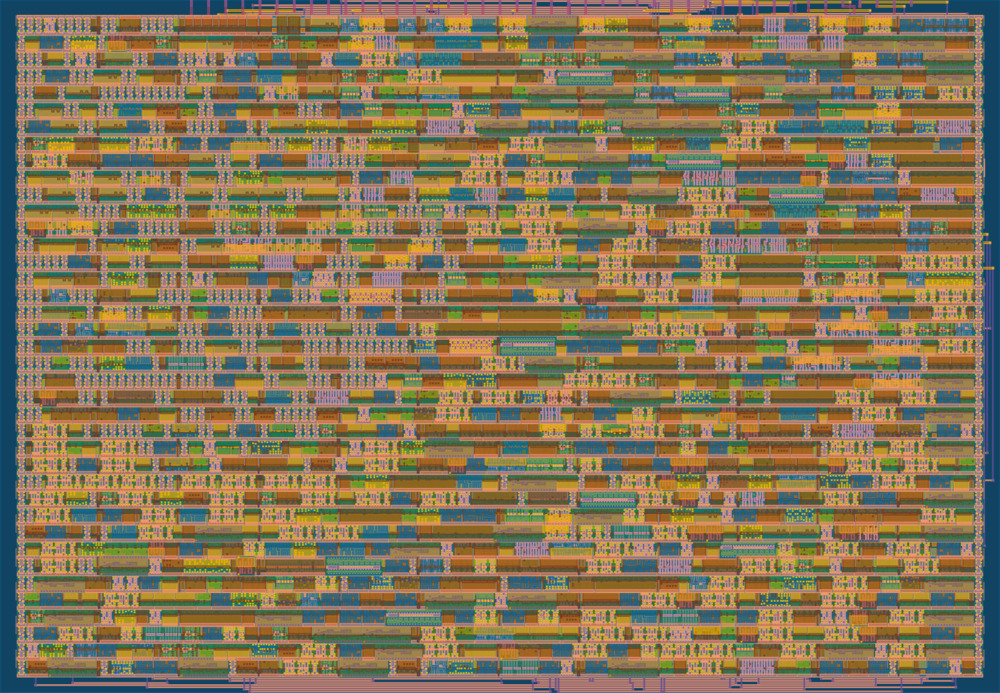
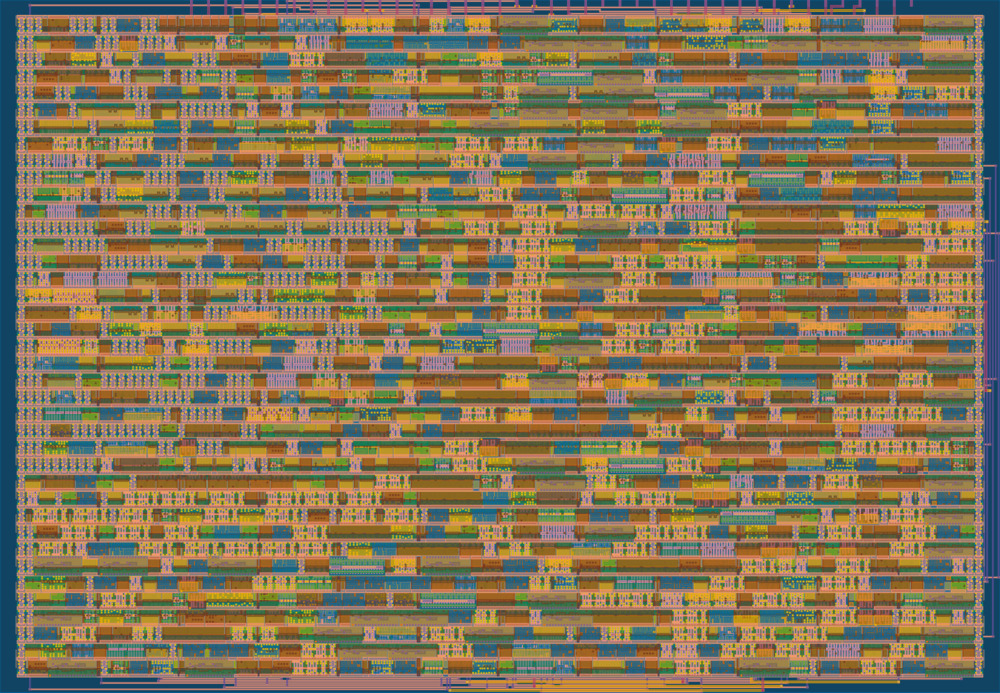
experiments with performance

diff --git a/fmax.py b/fmax.py
@@ -1,0 +1,29 @@
+#!/usr/bin/env python3
+# fmax per STA corner: 1000 / (CLOCK_PERIOD - setup WS) MHz
+import glob
+import json
+from pathlib import Path
+
+root = Path(__file__).resolve().parent
+period = json.loads((root / "src/config.json").read_text())["CLOCK_PERIOD"]
+
+results = {}
+for rpt in glob.glob(str(root / "runs/wokwi/*-openroad-stapostpnr/summary.rpt")):
+    for line in Path(rpt).read_text().splitlines():
+        cols = [c.strip() for c in line.split("│")]
+        if len(cols) <= 8 or cols[1] == "Overall":
+            continue
+        try:
+            ws = float(cols[7])
+        except ValueError:
+            continue
+        results[cols[1]] = (ws, 1000 / (period - ws))
+
+for corner, (ws, mhz) in results.items():
+    print(f"{corner:<20} {ws:9.4f} ns {mhz:7.2f} MHz")
+
+if results:
+    mhz = [m for _, m in results.values()]
+    print(f"fmax range: {min(mhz):.2f} – {max(mhz):.2f} MHz")
+
+

diff --git a/README.md b/README.md
@@ -48,10 +48,7 @@ make harden
 Look in `runs/wokwi/` for errors/warnings. Diagnostics are available with
 
 ```
-.venv/bin/python tt/tt_tool.py --print-warnings
-.venv/bin/python tt/tt_tool.py --print-stats
-.venv/bin/python tt/tt_tool.py --print-cell-summary
-.venv/bin/python tt/tt_tool.py --print-cell-category
+make stats
 ```
 
 To render an image try
@@ -66,20 +63,75 @@ and also look under `docs/netlist.svg`
 
 The final output is in `runs/wokwi/final/` (GDS, LEF, netlists).
 
-### Optimisations
+### Timing and Optimisations
 
-TODO perf
+An estimate of maximum clock frequency is `1 / (CLOCK_PERIOD − WNS)`.
 
-Add this to `src/config.json`) to use a faster adder type to trade space for speed:
+`src/config.json` sets `CLOCK_PERIOD: 20` (20 ns, 50 MHz)
+
+`WNS` (worst negative slack) is obtained from looking at the output of `runs/wokwi/*-openroad-stapostpnr/summary.rpt`
+
+The `fmax.py` script will automatically produce reports for each "corner" and at different temperatues
+
+```
+# Routing stats
+
+| Utilisation (%) | Wire length (um) |
+|-------------|------------------|
+| 78.509 % | 54459 |
+python ./fmax.py
+nom_tt_025C_1v80        3.7944 ns   61.71 MHz
+nom_ss_100C_1v60       -7.4748 ns   36.40 MHz
+nom_ff_n40C_1v95        8.4237 ns   86.38 MHz
+min_tt_025C_1v80        3.9201 ns   62.19 MHz
+min_ss_100C_1v60       -7.2305 ns   36.72 MHz
+min_ff_n40C_1v95        8.5358 ns   87.23 MHz
+max_tt_025C_1v80        3.6601 ns   61.20 MHz
+max_ss_100C_1v60       -7.7137 ns   36.08 MHz
+max_ff_n40C_1v95        8.3008 ns   85.48 MHz
+fmax range: 36.08 – 87.23 MHz
+```
+
+We can try to swap out the adder type from the default to `src/config.json`:
 
 ```
 "SYNTH_ADDER_TYPE": "CSA",
 ```
 
-### In Progress
+Here are some numbers with various adder implementationgs (on 1x2)
 
-TODO how do we see our frequency limits?
+- `YOSYS` 38% utilisation, 36.20 – 86.36 MHz
+- `FA` 38% utilisation, 36.20 – 86.36 MHz
+- `RCA` violations, 42% utilisation, 16.53 – 50.08 MHz
+- `CSA` violations, 39% utilisation, 27.15 – 71.53 MHz
 
-TODO use https://gds-explorer.tinytapeout.com/ to render a video
+But looking at our `docs/netlist.svg` we see that the majority of the time is take up by muxing.
 
-TODO can we render to PCB with ICs?
+Either we could think up another way to do this that is more parallelisable, or we could look into pipelining by storing the full state into intermediate registers. This lets us run with a faster clock but means the operation takes more cycles; increasing throughput but having little or no impact on latency.
+
+However, since this project is designed to run on a 1MHz beneater style 8-bit computer, we choose to leave it as it is.
+
+TODO see how much space 16 bits needs (and what the frequency limit then is... presumably much slower)
+
+### Future Work
+
+#### Art
+
+I was too close to the limit to be able to include art in this design, encorporating some easter egg designs in the next one could be feasible https://tinytapeout.com/guides/creating-silicon-art/ / https://github.com/nicoca20/artistic
+
+#### Clock Optimisation
+
+I find it hard to understand what to optimise, besides eyeballing the netlist. There are detailed reports under `runs/wokwi/*-openroad-stapostpnr` that can be analysed to get timings. However, a tool that simply takes the theoretical gate level propagation times and overlays it onto the netlist, while accumulating the time to get there, would be very useful for finding what is best to pipeline.
+
+For this particular design it seems that the `$add` and `$mux` step (taking the initial mult result and shifting it into the input register) would benefit from pipelining the most.
+
+#### FPGA
+
+It would be very useful to be able to target an FPGA, not just for testing but to be able to make use of this design as an actual hardware accelerator allowing very parallel workloads.
+
+#### PCB
+
+It would be a lot of fun to synthesise to a PCB and have it made with 74 series popcorn ICs. That is feasible with the yosys `74xx-liberty` backend, e.g.
+
+https://pepijndevos.nl/2019/07/18/vhdl-to-pcb.html
+
